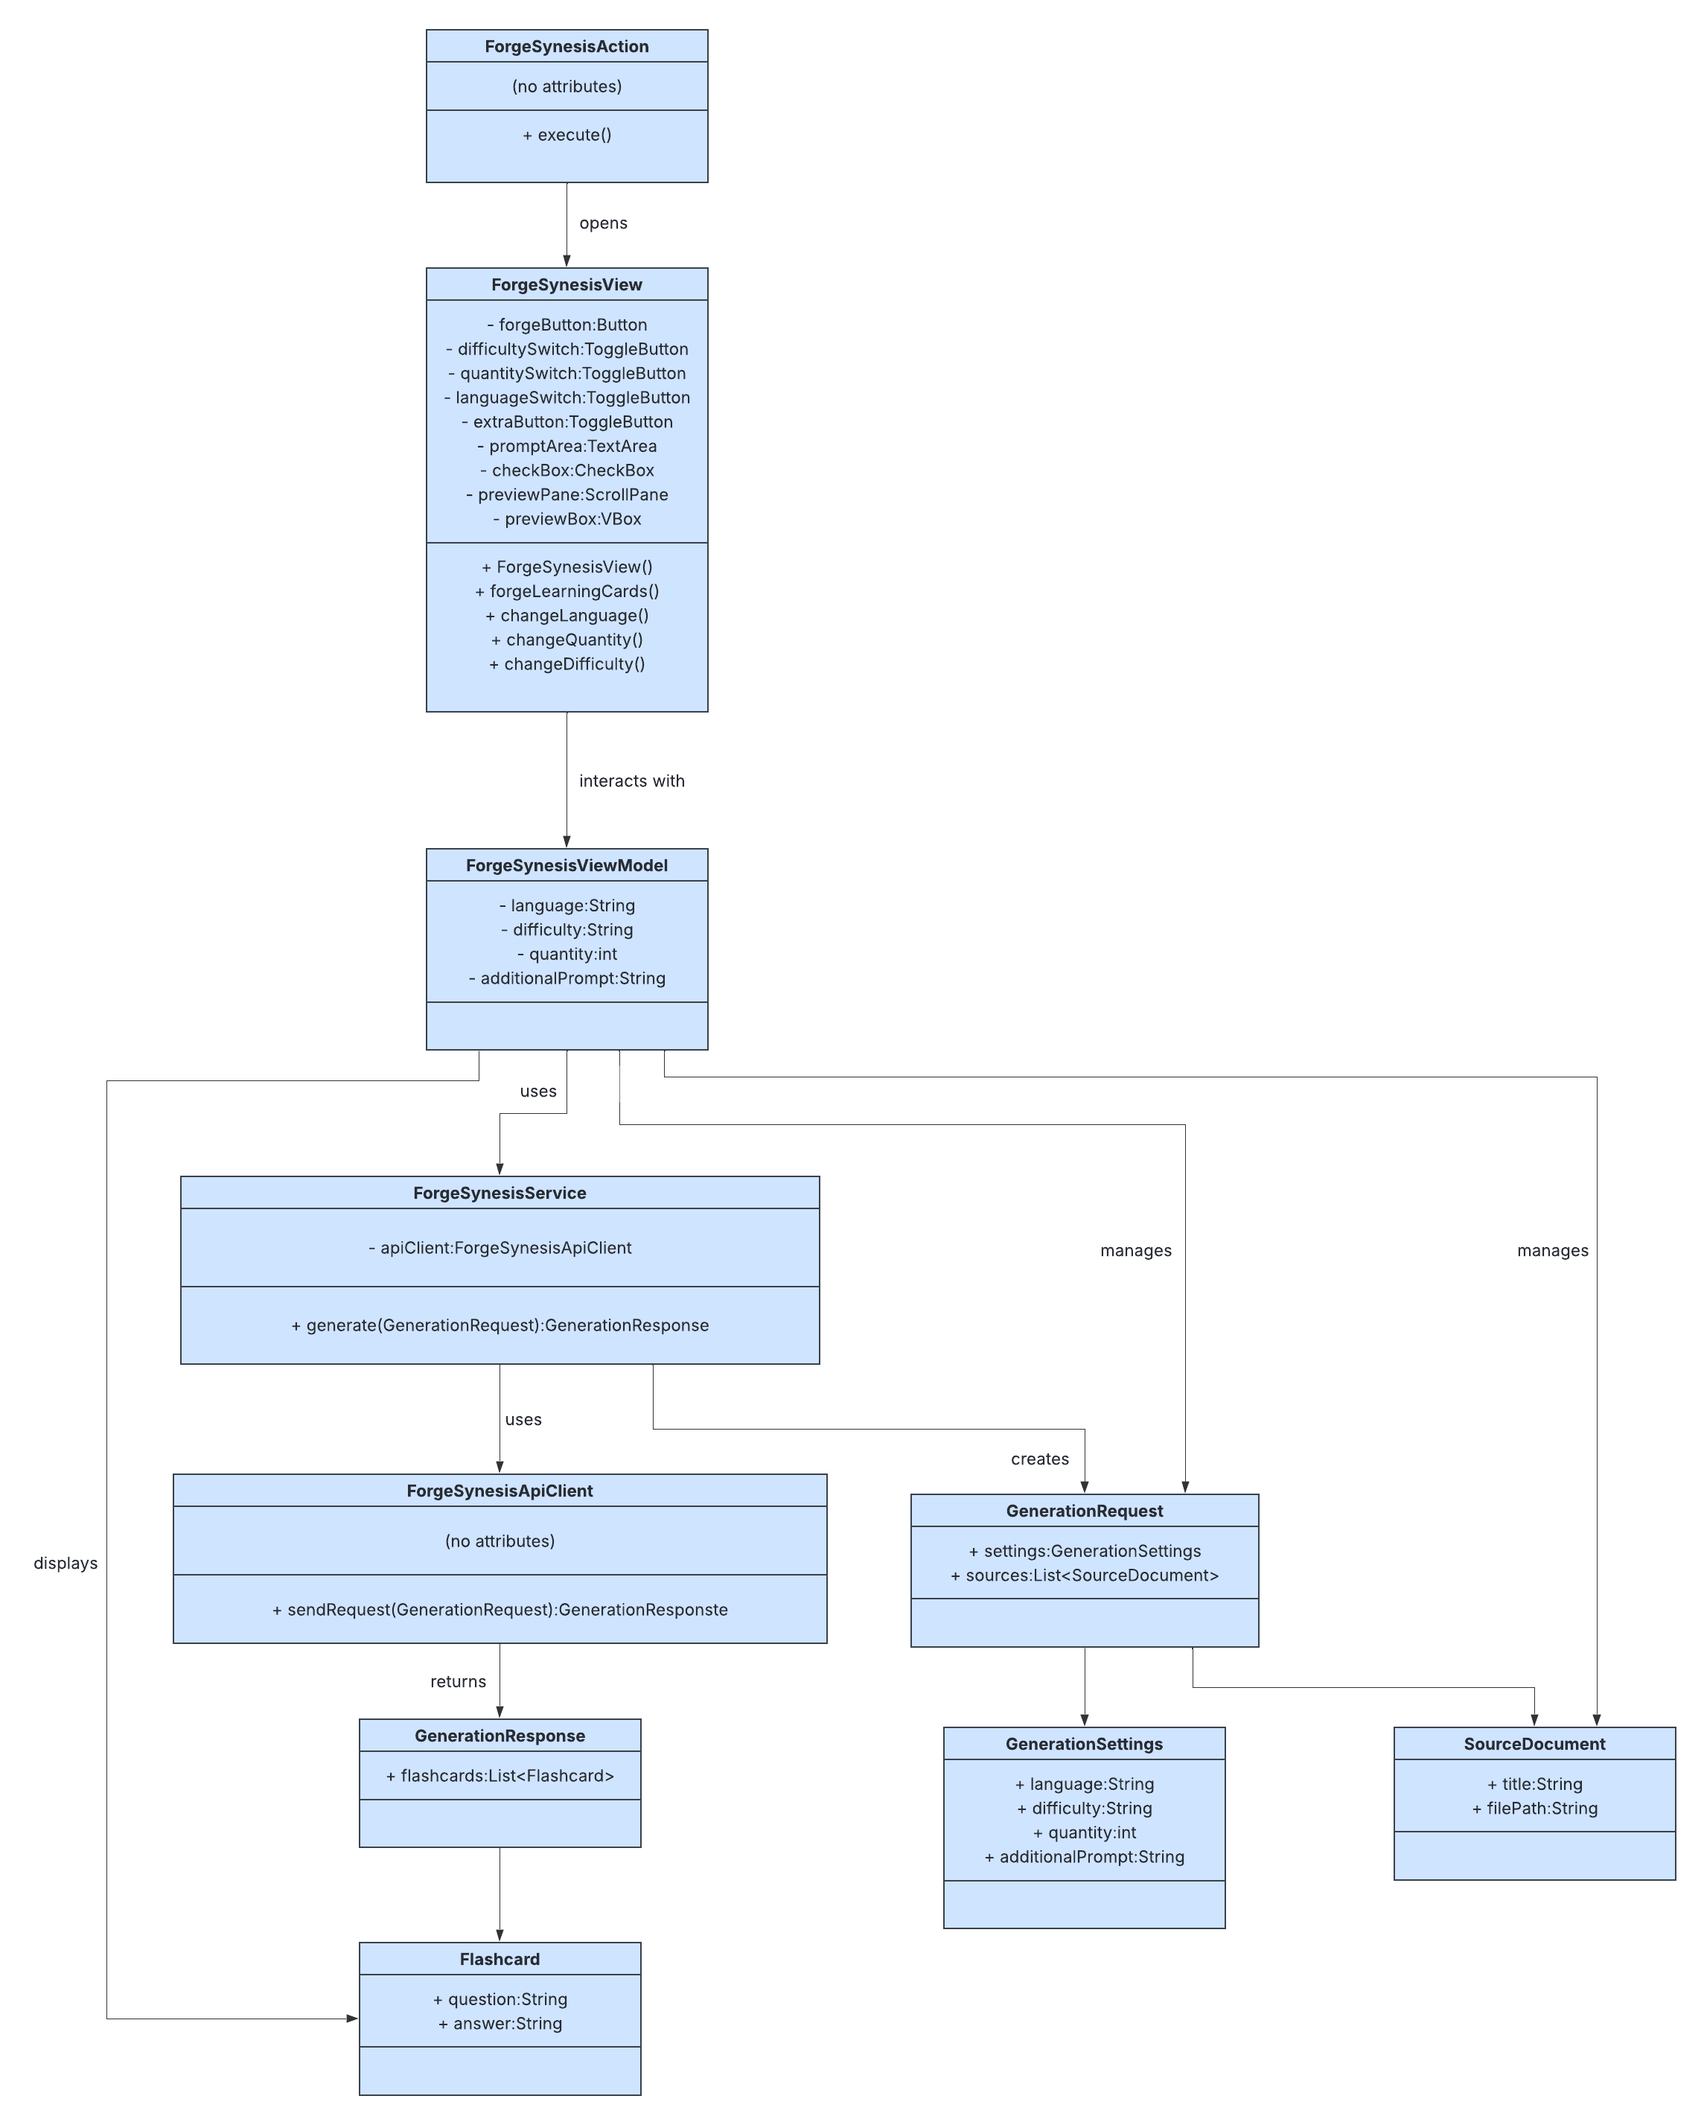
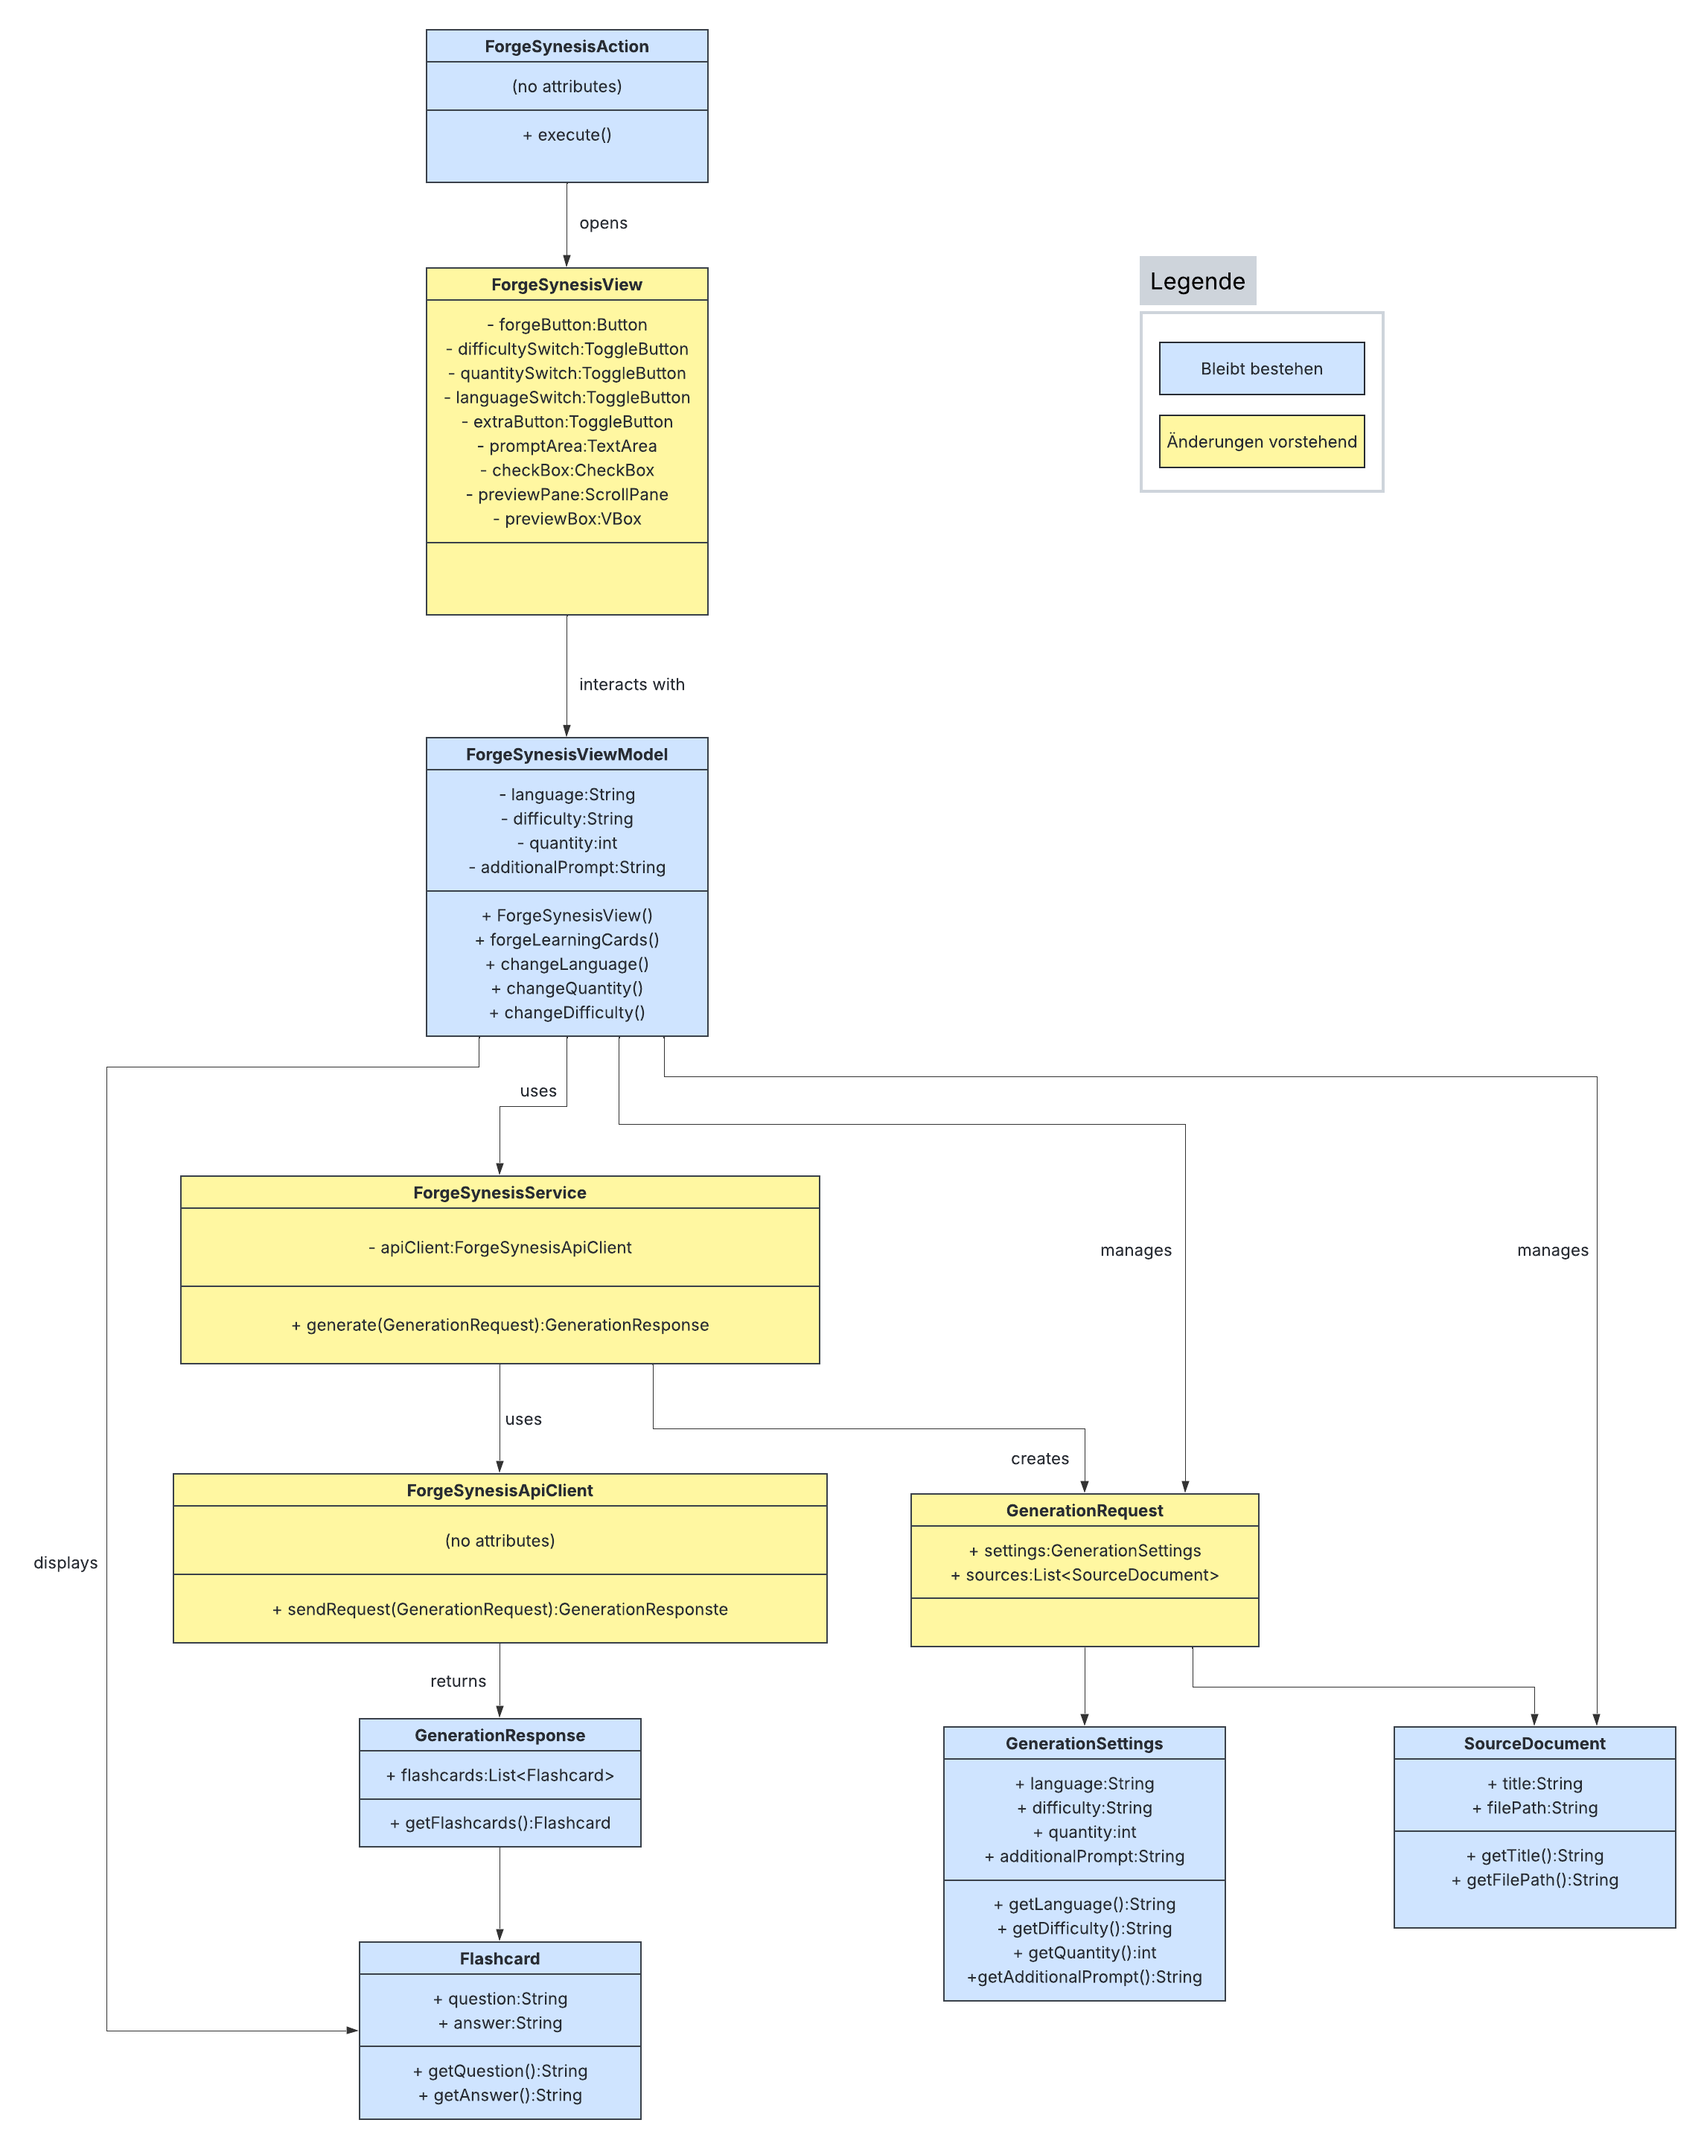
Updated diagrams and technical doc

diff --git a/docs/sweng/TechnischeDokumentation.md b/docs/sweng/TechnischeDokumentation.md
@@ -2,7 +2,7 @@
 layout: default
 title : Technische Dokumentation
 ---
-# Technische Dokumentation (Template)
+# Technische Dokumentation
 
 | Version | Projektname   | Autor                                                                            | Status                                         | Datum      | Kommentar |
 | ------- |---------------|----------------------------------------------------------------------------------|------------------------------------------------|------------| --------- |
@@ -65,6 +65,8 @@ Sobald der User die Generierung startet, werden die ausgewählten Dokumente und 
 
 
 ![Aktivitätsdiagramm](/docs/sweng/diagrams/AktivitaetsDiagramm_ForgeSynesis.png)
+
+![Zustandsdiagramm](/docs/sweng/diagrams/ZustandsDiagramm_ForgeSynesis.png)
 
 ## 5.3 Logik
 
